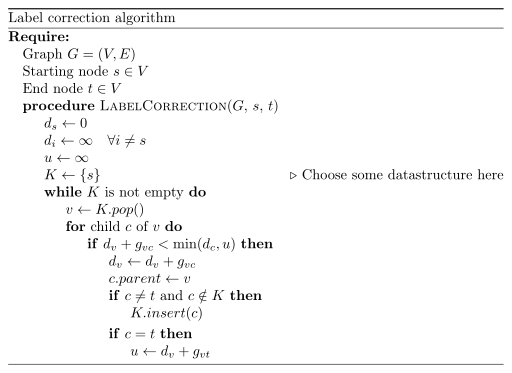
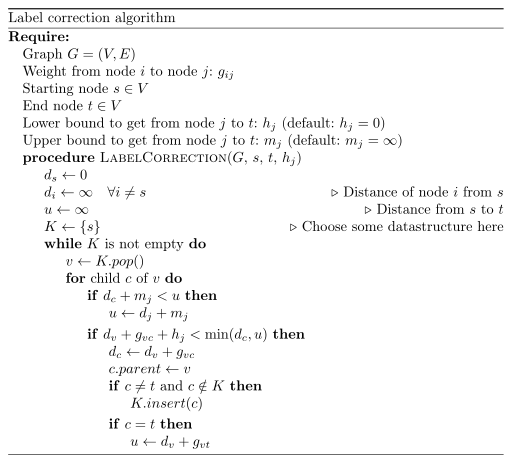
Fix error in label correction; extend for banch-and-bound

Changed region(s): [[0.0, 0.0, 1.0, 1.0], [0.5625, 0.3834, 1.0, 0.5013]]

diff --git a/source-code/Pseudocode/label-correction/label-correction.tex b/source-code/Pseudocode/label-correction/label-correction.tex
@@ -20,18 +20,24 @@
         \begin{algorithmic}
         \Require
         \Statex Graph $G = (V, E)$
+        \Statex Weight from node $i$ to node $j$: $g_{ij}$
         \Statex Starting node $s \in V$
         \Statex End node $t \in V$
-        \Procedure{LabelCorrection}{$G$, $s$, $t$}
+        \Statex Lower bound to get from node $j$ to $t$: $h_j$ (default: $h_j = 0$)
+        \Statex Upper bound to get from node $j$ to $t$: $m_j$ (default: $m_j = \infty$)
+        \Procedure{LabelCorrection}{$G$, $s$, $t$, $h_j$}
             \State $d_s \gets 0$
-            \State $d_i \gets \infty \quad \forall i \neq s$
-            \State $u \gets \infty$
+            \State $d_i \gets \infty \quad \forall i \neq s$ \Comment{Distance of node $i$ from $s$}
+            \State $u \gets \infty$ \Comment{Distance from $s$ to $t$}
             \State $K \gets \{s\}$ \Comment{Choose some datastructure here}
             \While{$K$ is not empty}
                 \State $v \gets K.pop()$
                 \For{child $c$ of $v$}
-                    \If{$d_v + g_{vc} < \min(d_c, u)$}
-                        \State $d_v \gets d_v + g_{vc}$
+                    \If{$d_c + m_j < u$}
+                        \State $u \gets d_j + m_j$
+                    \EndIf
+                    \If{$d_v + g_{vc} + h_j < \min(d_c, u)$}
+                        \State $d_c \gets d_v + g_{vc}$
                         \State $c.parent \gets v$
                         \If{$c \neq t$ and $c \notin K$}
                             \State $K.insert(c)$
